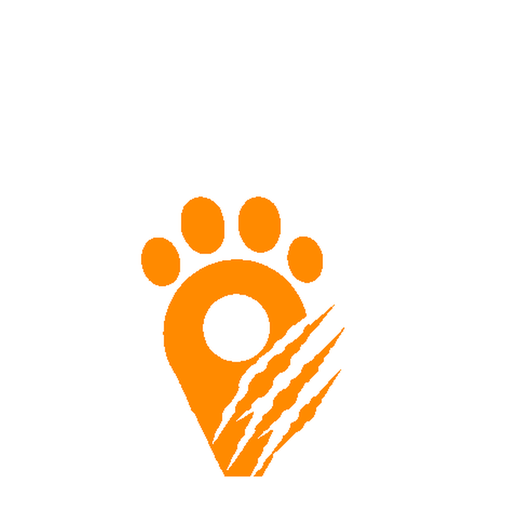
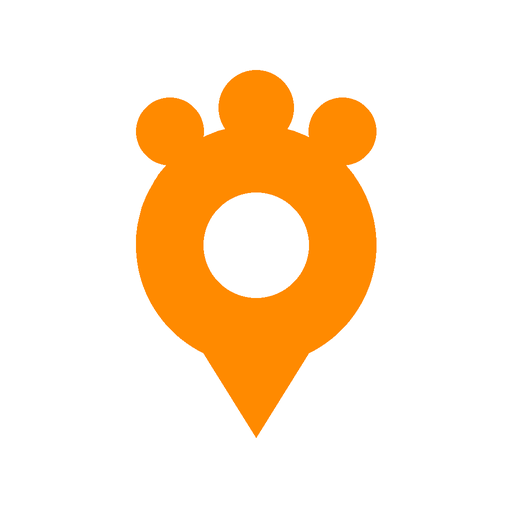
feat: 아이콘 발톱자국 제거+핀끝 노출, 스플래시 바운스 제거, 지도 마커 정사각형
- 앱 아이콘: 발톱자국 제거, 발바닥3개+위치핀 심볼 프로그래매틱 재생성
- 스플래시: 위아래 바운스 애니메이션 제거 (정지 상태 유지)
- 지도 사진 마커: 원형 → 정사각형 (둥근 모서리 64px, 발톱 크기 동일)

Changed region(s): [[0.25, 0.125, 0.75, 0.9375]]

diff --git a/lib/core/utils/marker_builder.dart b/lib/core/utils/marker_builder.dart
@@ -5,21 +5,18 @@ import 'package:flutter/foundation.dart';
 import 'package:google_maps_flutter/google_maps_flutter.dart';
 
 class MarkerBuilder {
-  // 사진 핀 마커: 둥근 사각형 사진 + 아래 꼭지 (위치핀 형태)
+  // 사진 마커: 발톱 크기와 동일한 정사각형 사진 썸네일 (흰 테두리 + 둥근 모서리)
   static Future<BitmapDescriptor> buildPhotoMarker(String imagePath) async {
     if (kIsWeb) return BitmapDescriptor.defaultMarkerWithHue(BitmapDescriptor.hueGreen);
 
-    const double sz     = 100.0;  // 사각형 크기
-    const double radius = 14.0;   // 모서리 반경
-    const double tip    = 16.0;   // 꼭지 높이
-    const double border = 3.5;    // 흰 테두리 두께
-    const double totalH = sz + tip;
-    const double w      = sz;
+    const double sz     = 64.0;
+    const double border = 3.0;
+    const double radius = 10.0;
 
     ui.Image? photo;
     try {
       final bytes = await File(imagePath).readAsBytes();
-      final codec = await ui.instantiateImageCodec(bytes, targetWidth: 100, targetHeight: 100);
+      final codec = await ui.instantiateImageCodec(bytes, targetWidth: 64, targetHeight: 64);
       final frame = await codec.getNextFrame();
       photo = frame.image;
     } catch (_) {}
@@ -27,81 +24,43 @@ class MarkerBuilder {
     final recorder = ui.PictureRecorder();
     final canvas   = ui.Canvas(recorder);
 
-    // 그림자
-    final shadowPaint = ui.Paint()
-      ..color = const ui.Color(0x44000000)
-      ..maskFilter = const ui.MaskFilter.blur(ui.BlurStyle.normal, 4);
-    _drawPinShape(canvas, w, sz, tip, radius, shadowPaint, offsetY: 3);
-
     // 흰 테두리
-    final borderPaint = ui.Paint()..color = const ui.Color(0xFFFFFFFF);
-    _drawPinShape(canvas, w, sz, tip, radius, borderPaint);
+    canvas.drawRRect(
+      ui.RRect.fromRectAndRadius(
+        ui.Rect.fromLTWH(0, 0, sz, sz),
+        const ui.Radius.circular(radius),
+      ),
+      ui.Paint()..color = const ui.Color(0xFFFFFFFF)..isAntiAlias = true,
+    );
 
     // 사진 클립
     canvas.save();
-    final clipPath = _pinPath(w, sz, tip, radius - border + 1,
-        insetX: border, insetY: border);
-    canvas.clipPath(clipPath);
-
+    canvas.clipRRect(
+      ui.RRect.fromRectAndRadius(
+        ui.Rect.fromLTWH(border, border, sz - border * 2, sz - border * 2),
+        const ui.Radius.circular(radius - border),
+      ),
+    );
     if (photo != null) {
       canvas.drawImageRect(
         photo,
         ui.Rect.fromLTWH(0, 0, photo.width.toDouble(), photo.height.toDouble()),
-        ui.Rect.fromLTWH(border, border, w - border * 2, sz - border * 2),
+        ui.Rect.fromLTWH(border, border, sz - border * 2, sz - border * 2),
         ui.Paint()..isAntiAlias = true,
       );
     } else {
-      // 사진 없을 때 주황 배경 + 카메라 아이콘
       canvas.drawRect(
-        ui.Rect.fromLTWH(border, border, w - border * 2, sz - border * 2),
+        ui.Rect.fromLTWH(border, border, sz - border * 2, sz - border * 2),
         ui.Paint()..color = const ui.Color(0xFFFF8A00),
       );
     }
     canvas.restore();
 
     final picture = recorder.endRecording();
-    final img  = await picture.toImage(w.toInt(), totalH.toInt());
+    final img  = await picture.toImage(sz.toInt(), sz.toInt());
     final data = await img.toByteData(format: ui.ImageByteFormat.png);
     if (data == null) return BitmapDescriptor.defaultMarkerWithHue(BitmapDescriptor.hueGreen);
     return BitmapDescriptor.bytes(data.buffer.asUint8List());
-  }
-
-  static void _drawPinShape(
-    ui.Canvas canvas, double w, double sz, double tip, double r,
-    ui.Paint paint, {double offsetY = 0}
-  ) {
-    final path = _pinPath(w, sz, tip, r, offsetY: offsetY);
-    canvas.drawPath(path, paint);
-  }
-
-  static ui.Path _pinPath(
-    double w, double sz, double tip, double r, {
-    double insetX = 0, double insetY = 0, double offsetY = 0,
-  }) {
-    final left   = insetX;
-    final top    = insetY + offsetY;
-    final right  = w - insetX;
-    final bottom = sz - insetY + offsetY;
-    final mid    = w / 2;
-
-    return ui.Path()
-      ..moveTo(left + r, top)
-      ..lineTo(right - r, top)
-      ..arcToPoint(ui.Offset(right, top + r),
-          radius: ui.Radius.circular(r))
-      ..lineTo(right, bottom - r)
-      ..arcToPoint(ui.Offset(right - r, bottom),
-          radius: ui.Radius.circular(r))
-      ..lineTo(mid + 10, bottom)
-      ..lineTo(mid, bottom + tip - insetY)   // 꼭지 끝
-      ..lineTo(mid - 10, bottom)
-      ..lineTo(left + r, bottom)
-      ..arcToPoint(ui.Offset(left, bottom - r),
-          radius: ui.Radius.circular(r))
-      ..lineTo(left, top + r)
-      ..arcToPoint(ui.Offset(left + r, top),
-          radius: ui.Radius.circular(r))
-      ..close();
   }
 
   /// 클러스터 마커 (여러 핀 묶음)

diff --git a/lib/features/auth/screens/splash_screen.dart b/lib/features/auth/screens/splash_screen.dart
@@ -87,7 +87,6 @@ class _SplashScreenState extends State<SplashScreen> with TickerProviderStateMix
   Future<void> _start() async {
     _introCtrl.forward().then((_) {
       if (mounted) {
-        _bounceCtrl.repeat(reverse: true);
         _glowCtrl.repeat(reverse: true);
       }
     });
@@ -150,9 +149,7 @@ class _SplashScreenState extends State<SplashScreen> with TickerProviderStateMix
                       const Spacer(flex: 5),
 
                       // ── 핀 아이콘 + 글로우 링 ──────────────────────────────────
-                      Transform.translate(
-                        offset: Offset(0, _bounceY.value),
-                        child: Stack(
+                      Stack(
                           alignment: Alignment.center,
                           children: [
                             // 외곽 글로우
@@ -193,13 +190,12 @@ class _SplashScreenState extends State<SplashScreen> with TickerProviderStateMix
                                   width: 110,
                                   height: 128,
                                   child: CustomPaint(
-                                    painter: _PinIconPainter(squishY: _squishY.value),
+                                    painter: _PinIconPainter(),
                                   ),
                                 ),
                               ),
                             ),
                           ],
-                        ),
                       ),
 
                       const SizedBox(height: 52),
